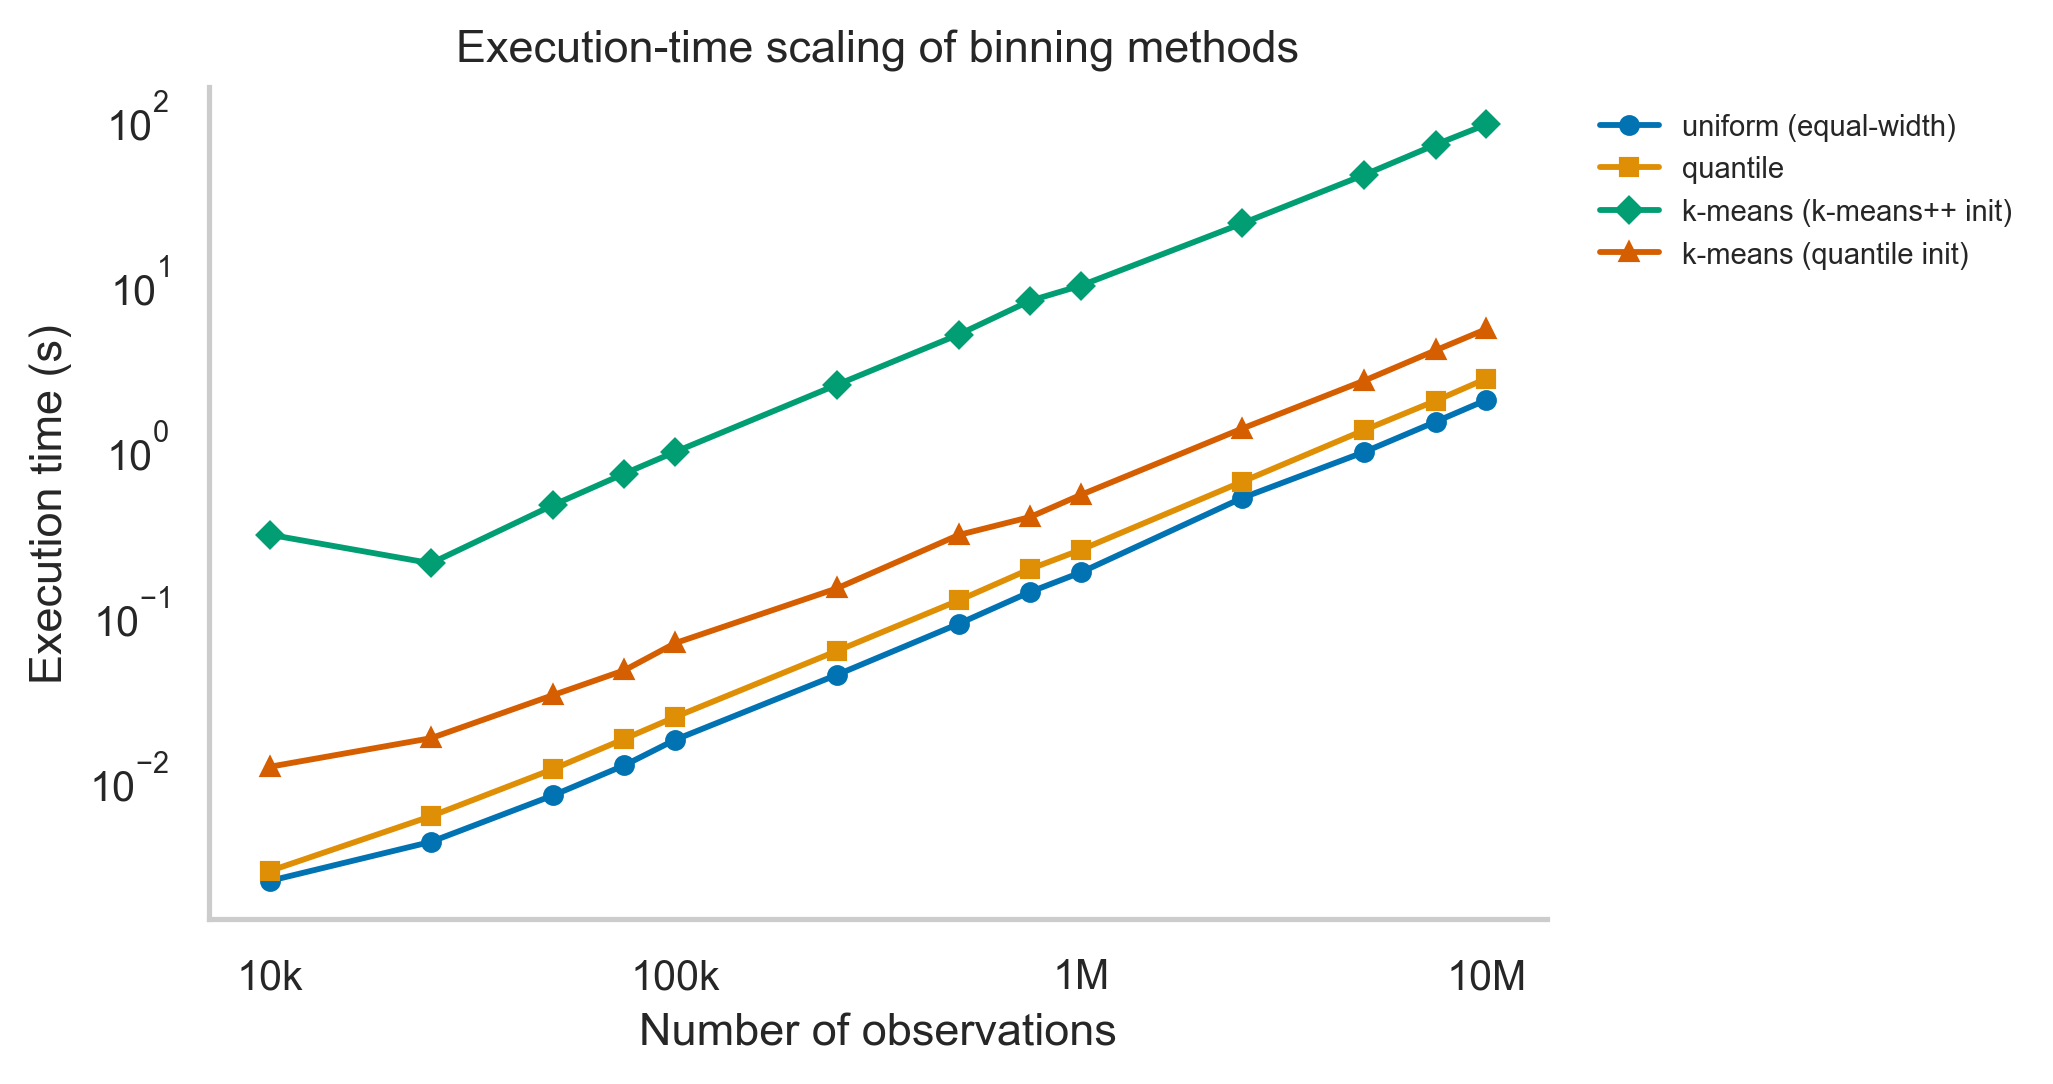
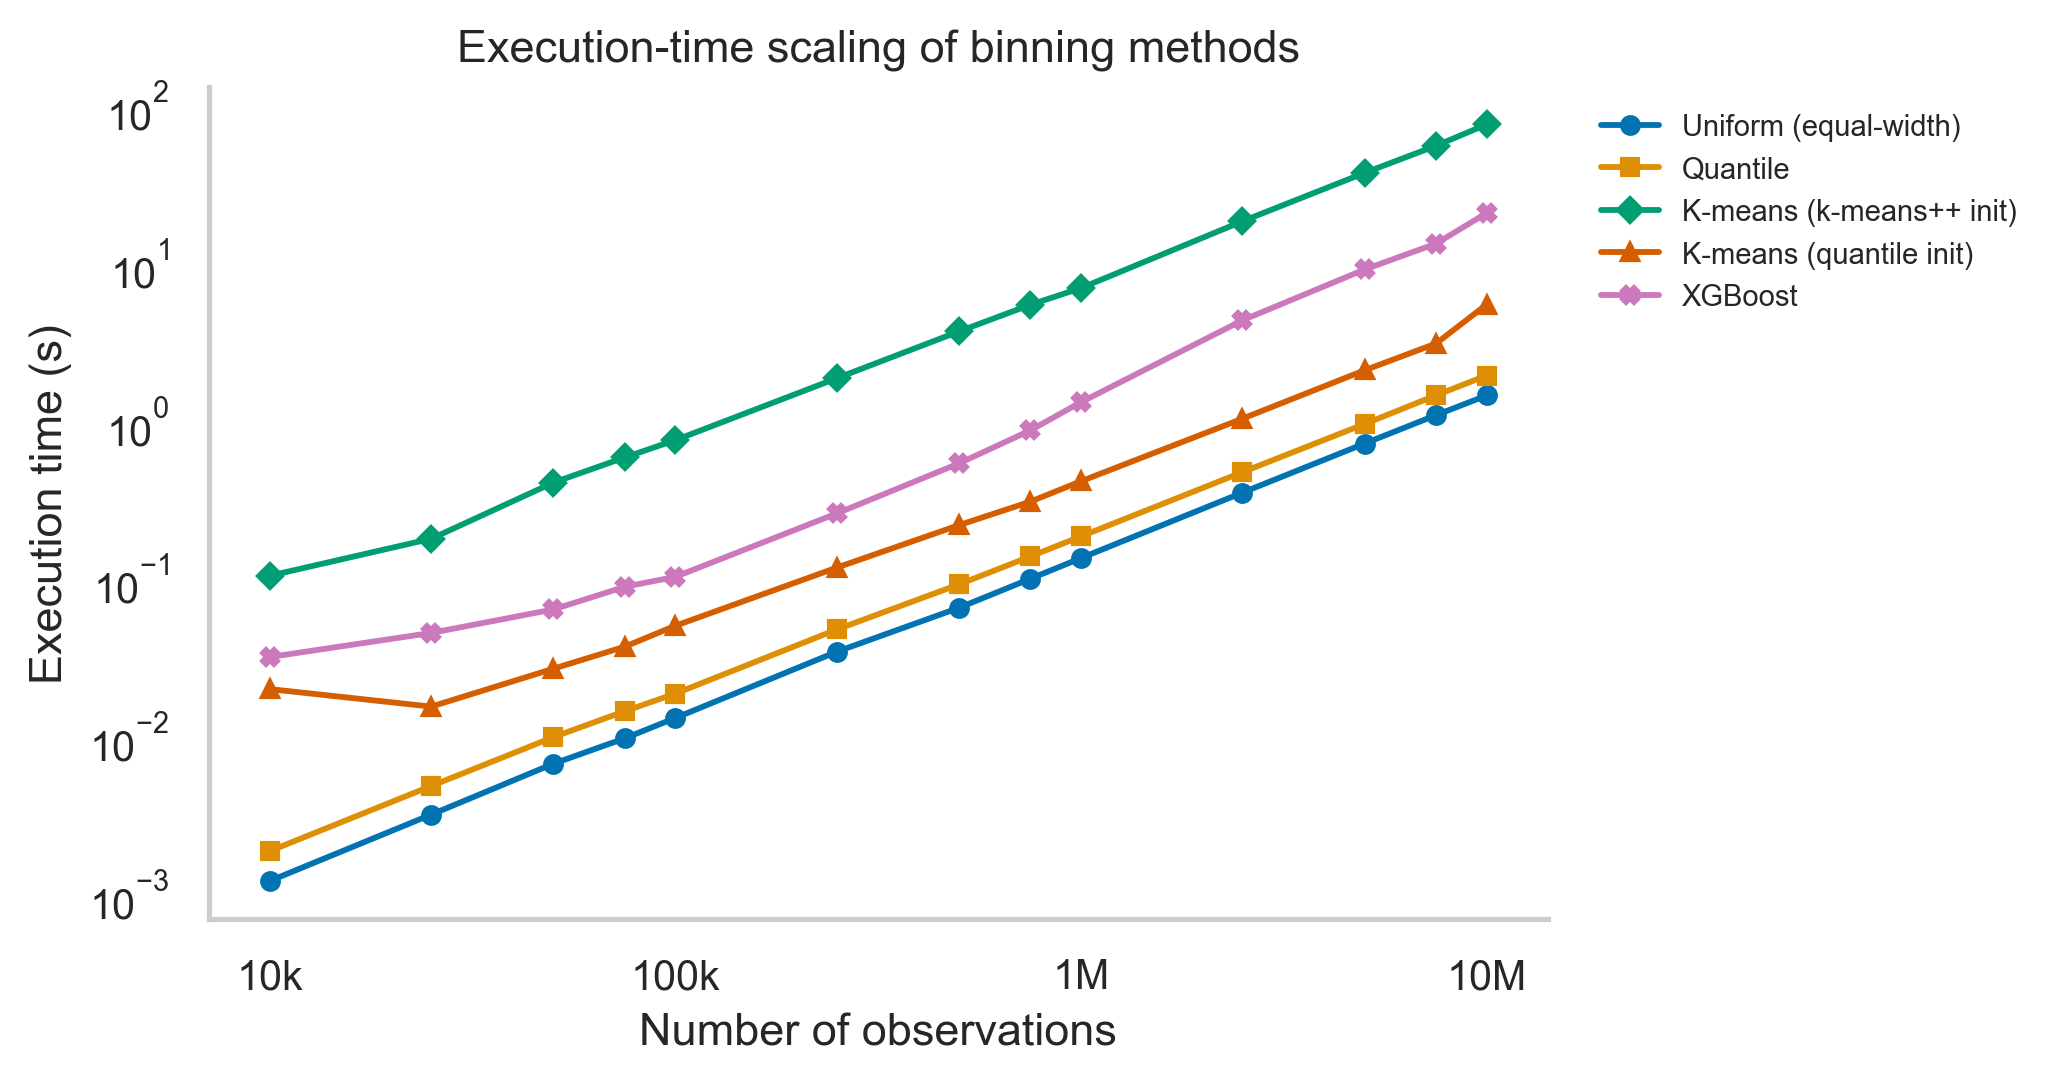
Final updates before publication

diff --git a/scripts/optimal_binning.py b/scripts/optimal_binning.py
@@ -1,0 +1,120 @@
+import openml
+from openml.tasks import list_tasks, TaskType
+import os
+import json
+import logging
+import numpy as np
+import warnings
+import pandas as pd
+from scipy.stats import uniform, randint, loguniform
+from sklearn.ensemble import GradientBoostingRegressor
+from sklearn.model_selection import train_test_split, KFold
+from sklearn.pipeline import make_pipeline
+from sklearn.metrics import mean_squared_error, r2_score
+from joblib import Memory
+from xgboost import XGBRegressor
+from src import DataBinner 
+import argparse
+import time
+
+
+warnings.filterwarnings("ignore", category=UserWarning)
+logging.getLogger("sklearn").setLevel(logging.ERROR)
+
+def sample_params():
+    return {
+        'n_estimators': randint.rvs(20, 300),
+        'learning_rate': loguniform.rvs(0.001, 0.5),
+        'max_depth': randint.rvs(3, 6),
+        'subsample': uniform.rvs(0.5, 0.5),
+        'max_features': uniform.rvs(0.5, 0.5)
+    }
+
+# List of binning methods to experiment with
+binning_methods = [
+    #'quantile',
+    #'optimal_reg', 
+    #'optimal_kmeans',
+    #'kmeans' 
+    'jenks'
+]
+
+# Retrieve a benchmark suite from OpenML and select a task
+benchmark_suite = openml.study.get_suite(336)
+task_ids = np.array(benchmark_suite.tasks)[[-2, 7]]
+
+for task_id in task_ids:
+    task = openml.tasks.get_task(int(task_id))
+    dataset = task.get_dataset()
+    name = dataset.name
+    obs = dataset.qualities['NumberOfInstances']
+    features = dataset.qualities['NumberOfFeatures']
+    print(f"===== DATASET {name} with {obs} observations and {features} features =====")
+
+    # Get X and y
+    X, y = task.get_X_and_y(dataset_format='dataframe')
+    X = X.astype(float)
+    y = y.astype(float)
+    original_feature_names = X.columns
+    running_train_time = 0
+    
+    for bin_method in binning_methods:
+        running_bin_time = 0
+            
+        # Split the data
+        X_other, X_test, y_other, y_test = train_test_split(X, y, test_size=0.2, random_state=0)
+        
+        # Ensure we keep column names for consistency
+        X_other = pd.DataFrame(X_other, columns=original_feature_names)
+        X_test = pd.DataFrame(X_test, columns=original_feature_names)
+
+        # Time the binning process
+        binner = DataBinner(method=bin_method, n_bins=255, random_state=0)
+
+        # Manual random search with cross-validation
+        kf = KFold(n_splits=5, shuffle=True, random_state=0)
+        best_score = float('-inf')
+        best_params = None
+        
+        for _ in range(30):  # n_iter = 30
+            params = sample_params()
+            cv_scores = []
+            
+            for train_idx, val_idx in kf.split(X_other):
+                X_train = X_other.iloc[train_idx]
+                y_train = y_other.iloc[train_idx]
+                X_val = X_other.iloc[val_idx]
+                y_val = y_other.iloc[val_idx]
+                
+                start_time = time.time()
+                X_train_binned = binner.fit_transform(X_train, y_train)
+                X_val_binned = binner.transform(X_val)
+                binning_time = time.time() - start_time
+                running_bin_time += binning_time
+                
+                
+                model = GradientBoostingRegressor(**params, random_state=0)
+                start_time = time.time()
+                model.fit(X_train_binned, y_train)
+                train_time = time.time() - start_time
+                running_train_time += train_time
+                val_pred = model.predict(X_val_binned)
+                cv_scores.append(-mean_squared_error(y_val, val_pred))
+            
+            mean_cv_score = np.mean(cv_scores)
+            if mean_cv_score > best_score:
+                best_score = mean_cv_score
+                best_params = params
+
+        # Train final model with best parameters
+        final_model = GradientBoostingRegressor(**best_params, random_state=0)
+        X_other_binned = binner.fit_transform(X_other, y_other)
+        final_model.fit(X_other_binned, y_other)
+        X_test_binned = binner.transform(X_test)  # Only transform for test set, no fitting needed
+        y_pred = final_model.predict(X_test_binned)
+        mse = mean_squared_error(y_test, y_pred)
+        r2 = r2_score(y_test, y_pred)
+        print(f"Bin method: {bin_method}, Mean MSE: {mse}, Mean R2: {r2}, Average binning time: {running_bin_time / (30 * 5)} seconds")
+        
+    print(f"Average training time: {running_train_time / (30 * 5 * len(binning_methods))} seconds")
+        

diff --git a/scripts/construct_computation_test.py b/scripts/construct_computation_test.py
@@ -5,36 +5,47 @@ import timeit
 import matplotlib.pyplot as plt
 import seaborn as sns
 from matplotlib.ticker import ScalarFormatter, AutoMinorLocator, FuncFormatter
+from xgboost import XGBRegressor
 
 
 sizes = [10000, 25000, 50000, 75000, 100000, 250000, 500000, 750000, 1000000, 2500000, 5000000, 7500000, 10000000]
-times = np.zeros((len(sizes), 4))
+times = np.zeros((len(sizes), 5, 5)) # 6 methods, 5 repetitions
 
 linspace = DataBinner(method = 'linspace', n_bins = 255)
 quantile = DataBinner(method = 'quantile', n_bins = 255)
 kmeans_plus = DataBinner(method = 'kmeans', n_bins = 255, kmeans_init='++')
 kmeans_quantile = DataBinner(method = 'kmeans', n_bins = 255, kmeans_init='quantile')
 
+for j in range(5): # 5 repetitions
+    for i, size in enumerate(sizes):
+        print(f"Processing size {size}")
+        X = np.random.uniform(0, 1, size)
+        y = 2 * X + np.random.normal(0, 0.1, size)
+        X = pd.DataFrame(data = X, columns = ['feature'])
+        y = pd.Series(data = y, name = 'target')
+        model = XGBRegressor(n_jobs = 1, tree_method = 'hist')
+        times[i, 0, j] = timeit.timeit(lambda: linspace.fit_transform(X), number=1)
+        times[i, 1, j] = timeit.timeit(lambda: quantile.fit_transform(X), number=1)
+        times[i, 2, j] = timeit.timeit(lambda: kmeans_plus.fit_transform(X), number=1)
+        times[i, 3, j] = timeit.timeit(lambda: kmeans_quantile.fit_transform(X), number=1)
+        times[i, 4, j] = timeit.timeit(lambda: model.fit(X, y), number=1)
 
-for i, size in enumerate(sizes):
-    X = np.random.uniform(0, 1, size)
-    X = pd.DataFrame(data = X, columns = ['feature'])
-    times[i, 0] = timeit.timeit(lambda: linspace.fit_transform(X), number=1)
-    times[i, 1] = timeit.timeit(lambda: quantile.fit_transform(X), number=1)
-    times[i, 2] = timeit.timeit(lambda: kmeans_plus.fit_transform(X), number=1)
-    times[i, 3] = timeit.timeit(lambda: kmeans_quantile.fit_transform(X), number=1)
+times = times.mean(axis = 2)
+print(times)
+
 
 # ── seaborn style & palette ──────────────────────────────────────────────────
 sns.set_theme(style="whitegrid", font_scale=0.9)          # unobtrusive grid
-palette = sns.color_palette("colorblind", 4)              # C-B-safe colours
+palette = sns.color_palette("colorblind", 6)              # C-B-safe colours
 
 labels  = [
-    "uniform (equal-width)",
-    "quantile",
-    "k-means (k-means++ init)",
-    "k-means (quantile init)",
+    "Uniform (equal-width)",
+    "Quantile",
+    "K-means (k-means++ init)",
+    "K-means (quantile init)",
+    "XGBoost",
 ]
-markers = ["o", "s", "D", "^"]                      # distinct point styles
+markers = ["o", "s", "D", "^", "X"]                      # distinct point styles
 
 fig, ax = plt.subplots(figsize=(5.0, 3.2), dpi=300)
 fig.tight_layout(pad=0.4)

diff --git a/src/bin_dataset.py b/src/bin_dataset.py
@@ -1,6 +1,10 @@
 import numpy as np
 import pandas as pd
-from sklearn.cluster import KMeans, MiniBatchKMeans
+from sklearn.cluster import KMeans
+from optbinning import ContinuousOptimalBinning, OptimalBinning, MDLP
+import time
+import jenkspy
+import kmeans1d
 
 class DataBinner:
     """
@@ -45,7 +49,7 @@ class DataBinner:
     # ------------------------------------------------------------------ #
     #  Core logic
     # ------------------------------------------------------------------ #
-    def _fit_one_column(self, col: np.ndarray):
+    def _fit_one_column(self, col: np.ndarray, y: np.ndarray):
         """Return representation needed at transform-time."""
         unique = np.unique(col)
         if len(unique) <= self.n_bins:
@@ -82,6 +86,22 @@ class DataBinner:
             cuts = (centres[:-1] + centres[1:]) / 2.0
             return cuts
         
+        if self.method == 'optimal_reg':
+            o = ContinuousOptimalBinning(name='feature', dtype='numerical', max_n_bins=self.n_bins)
+            o.fit(col, y)
+            return o
+        if self.method == 'optimal_reg_high_fidelity': 
+            o = ContinuousOptimalBinning(name='feature', dtype='numerical', max_n_bins=self.n_bins, max_n_prebins=self.n_bins)
+            o.fit(col, y)
+            return o
+        if self.method == 'optimal_kmeans':
+            _, centroids = kmeans1d.cluster(col, self.n_bins)
+            centers = np.sort(centroids)
+            cuts = (centers[:-1] + centers[1:]) / 2.0
+            return cuts
+        if self.method == 'jenks':
+            cuts = jenkspy.jenks_breaks(col, self.n_bins)
+            return np.array(cuts)
         raise ValueError("method must be 'linspace', 'quantile', or 'kmeans'")
 
     def fit(self, X, y=None):
@@ -93,7 +113,7 @@ class DataBinner:
         else:
             X_arr = np.asarray(X)
         for j in range(X_arr.shape[1]):
-            cuts = self._fit_one_column(X_arr[:, j])
+            cuts = self._fit_one_column(X_arr[:, j], y)
             self._models.append(cuts)
         return self
 
@@ -108,11 +128,16 @@ class DataBinner:
             cols = None
             X_arr = np.asarray(X)
 
-        out = np.zeros_like(X_arr, dtype=int)
+        # Initialize output array with float type for MDLP method
+        dtype = float if self.method == 'mdlp' else int
+        out = np.zeros_like(X_arr, dtype=dtype)
 
-        for j, breakpoints in enumerate(self._models):
-            out[:, j] = np.digitize(X_arr[:, j], breakpoints)
-
+        for j, model in enumerate(self._models):
+            if isinstance(model, np.ndarray):
+                out[:, j] = np.digitize(X_arr[:, j], model)
+            else:
+                out[:, j] = model.transform(X_arr[:, j])
+                
         if cols is not None:
             out = pd.DataFrame(out, columns=cols)
         return out

diff --git a/scripts/openmlexperiment_reg.py b/scripts/openmlexperiment_reg.py
@@ -113,9 +113,9 @@ for i, bin_method in enumerate(binning_methods):
         
         if bin_method == 'exact':
             #We also want to test against how the model does assuming NO binning -- will take SIGNIFICANTLY longer
-            pipeline = make_pipeline(model, memory = memory)
+            pipeline = make_pipeline(model)
         else:
-            pipeline = make_pipeline(binner, model, memory = memory)
+            pipeline = make_pipeline(binner, model)
         
         cv = RandomizedSearchCV(
             pipeline, param_dist, n_iter=30, cv=5, n_jobs=-1,
@@ -131,8 +131,6 @@ for i, bin_method in enumerate(binning_methods):
         r2 = r2_score(y_test, y_pred)
         r2_scores[i, seed] = r2
                 
-        memory.clear(warn=False)
-
     #Printing out mean and std of MSE/R2 for each binning method and model
     method_mse = mses[i, :]
     mean_mse = np.mean(method_mse)
@@ -152,10 +150,18 @@ for i, bin_method in enumerate(binning_methods):
     results[bin_method]['mse'] = method_mse.tolist()
     results[bin_method]['r2'] = method_r2.tolist()
 
-#Saving the results to JSON file
-if xgboost is None:
+#Saving the results to existing JSON file
+with open(f"benchmark_experiments/reg_bench_{benchmark_id}_bins_{n_bins}.json", "r") as f:
+    existing_results = json.load(f)
+
+for bin_method in binning_methods:
+    existing_results[bin_method] = {}
+    existing_results[bin_method]['mse'] = results[bin_method]['mse']
+    existing_results[bin_method]['r2'] = results[bin_method]['r2']
+
+if not xgboost:
     with open(f"benchmark_experiments/reg_bench_{benchmark_id}_bins_{n_bins}.json", "w") as f:
-        json.dump(results, f, indent=4)
+        json.dump(existing_results, f, indent=4)
 else:
     with open(f"benchmark_experiments/reg_bench_{benchmark_id}_xgb_{xgboost}.json", "w") as f:
-        json.dump(results, f, indent=4)
+        json.dump(existing_results, f, indent=4)

diff --git a/scripts/openmlexperiment_class.py b/scripts/openmlexperiment_class.py
@@ -49,7 +49,7 @@ warnings.filterwarnings("ignore", category=UserWarning)
 logging.getLogger("sklearn").setLevel(logging.ERROR)
 logging.getLogger("lightgbm").setLevel(logging.ERROR)
 
-"""# Parameter distribution for sklearn
+# Parameter distribution for sklearn
 param_dist = {
     'gradientboostingclassifier__n_estimators': randint(20, 300),
     'gradientboostingclassifier__learning_rate': loguniform(0.001, 0.5),
@@ -57,22 +57,14 @@ param_dist = {
     'gradientboostingclassifier__subsample': uniform(0.5, 0.5),
     'gradientboostingclassifier__max_features': uniform(0.5, 0.5)}
 
-model = GradientBoostingClassifier()"""
-
-param_dist = {
-    'xgbregressor__n_estimators': randint(20, 300),
-    'xgbregressor__learning_rate': loguniform(0.001, 0.5),
-    'xgbregressor__max_depth': randint(3, 6),
-    'xgbregressor__subsample': uniform(0.5, 0.5),
-    'xgbregressor__colsample_bytree': uniform(0.5, 0.5)
-}
-model = XGBRegressor()
+model = GradientBoostingClassifier()
 
 # List of binning methods to experiment with
 binning_methods = [
-    'kmeans',
-    'quantile',
-    'linspace',
+    #'kmeans',
+    #'quantile',
+    #'linspace',
+    'optimal_class'
     #'exact'
 ]
 
@@ -166,5 +158,13 @@ for i, bin_method in enumerate(binning_methods):
     results[bin_method]['roc_auc'] = method_roc.tolist()
 
 #Saving the results to JSON file
+with open(f"benchmark_experiments/class_bench_{benchmark_id}_bins_{n_bins}.json", "r") as f:
+    existing_results = json.load(f)
+
+for bin_method in binning_methods:
+    existing_results[bin_method] = {}
+    existing_results[bin_method]['accuracy'] = results[bin_method]['accuracy']
+    existing_results[bin_method]['roc_auc'] = results[bin_method]['roc_auc']
+
 with open(f"benchmark_experiments/class_bench_{benchmark_id}_bins_{n_bins}.json", "w") as f:
-    json.dump(results, f, indent=4)
+    json.dump(existing_results, f, indent=4)

diff --git a/scripts/construct_dataset_eda.py b/scripts/construct_dataset_eda.py
@@ -1,0 +1,17 @@
+import openml
+from scipy.stats import skew
+import numpy as np
+
+# Retrieve a benchmark suite from OpenML and select a task
+benchmark_suite = openml.study.get_suite(337) #337 for classification
+for task_id in benchmark_suite.tasks:
+    task = openml.tasks.get_task(task_id)
+    dataset = task.get_dataset()
+    name = dataset.name
+    obs = dataset.qualities['NumberOfInstances']
+    features = dataset.qualities['NumberOfFeatures']
+    X, y = task.get_X_and_y(dataset_format='dataframe')
+    X = X.astype(float)
+    skews = np.array([skew(X[col]) for col in X.columns])
+    
+    print(f"===== DATASET {name} with {obs} observations and {features} features, Mean Skew: {np.mean(skews)} =====")

diff --git a/run_all.py b/run_all.py
@@ -42,3 +42,6 @@ if __name__ == "__main__":
         
     #Running results analysis
     run_script("scripts/results_analysis.py", num_seeds=20)
+    
+    #Running optimal binning experiment
+    run_script("scripts/optimal_binning.py")
